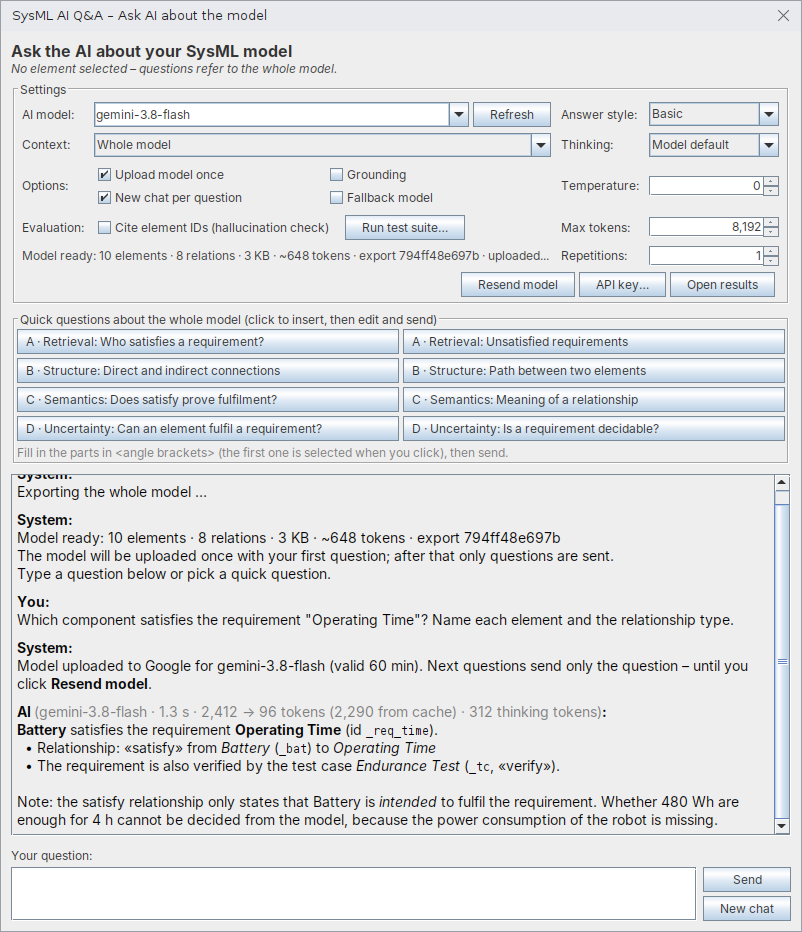
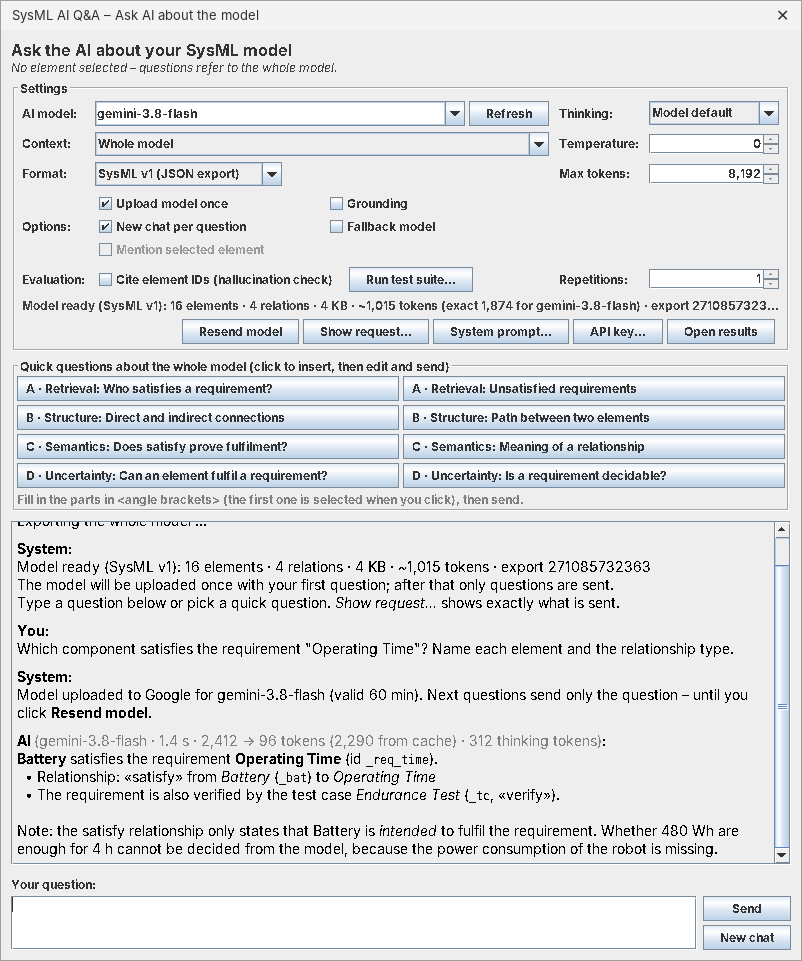
Handbook updated to v3.3 with new screenshots
All controls numbered from the real dialog, new sections for scope/format
and request preview/system prompt; unchanged installed prompt counts as
default.

Claude-Session: https://claude.ai/code/session_01PMQtB3czJBeF3QgdgGW1A7

Changed region(s): [[0.0, 0.0, 0.9975, 0.9335], [0.8728, 0.9335, 0.9975, 0.9957], [0.9663, 0.8712, 0.9975, 0.9024]]

diff --git a/src/de/hm/sysmlaiqa/api/PromptLoader.java b/src/de/hm/sysmlaiqa/api/PromptLoader.java
@@ -112,7 +112,11 @@ public class PromptLoader {
         if (text != null) return new Template(text, SOURCE_CUSTOM, custom);
         File installed = new File(baseDir, PROMPT_DIR + File.separator + fileName(format));
         text = read(installed);
-        if (text != null && !LEGACY_DEFAULTS.contains(normalize(text))) return new Template(text, SOURCE_INSTALLED, installed);
+        // Unveränderte Standardfassung (aktuell oder aus einer älteren Version) zählt als "default"
+        if (text != null && !LEGACY_DEFAULTS.contains(normalize(text))
+                && !normalize(text).equals(normalize(builtinDefault(format)))) {
+            return new Template(text, SOURCE_INSTALLED, installed);
+        }
         return new Template(builtinDefault(format), SOURCE_DEFAULT, null);
     }
 

diff --git a/HANDBUCH.md b/HANDBUCH.md
@@ -1,56 +1,58 @@
 # SysML AI Q&A – Benutzerhandbuch
 
-Dieses Handbuch erklärt das Plugin-Fenster nach der Installation: wo jede Einstellung ist, was sie bewirkt und welche Werte für Messungen sinnvoll sind. Installiert wird nach [`INSTALL.md`](INSTALL.md).
+Dieses Handbuch erklärt das Plugin-Fenster nach der Installation: wo jede Einstellung ist, was sie bewirkt und welche Werte für Messungen sinnvoll sind. Stand: **Version 3.3**. Installiert und aktualisiert wird nach [`INSTALL.md`](INSTALL.md).
 
-> **Stand der Bilder:** Die Screenshots stammen von Version 3.1. Seit 3.3 gibt es zusätzlich *Format*, *Depth*, *Choose…*, *Mention selected element*, *Show request…*, *System prompt…* und den *Stop*-Knopf; *Answer style* gibt es nicht mehr. Die Tabelle in Abschnitt 3 ist aktuell.
->
-> **Zu den Bildern:** Die Fenster-Screenshots zeigen das echte Plugin-Fenster mit einem kleinen Demo-Modell (Roboter mit Batterie, Antrieb, Chassis und drei Anforderungen) und Beispielantworten. In CATIA sieht das Fenster je nach Windows-Design etwas anders aus. Aufbau und Beschriftungen sind gleich.
+> **Zu den Bildern:** Das erste Bild ist ein echter Screenshot aus CATIA. Die übrigen zeigen das echte Plugin-Fenster mit einem kleinen Demo-Modell (Roboter mit Batterie, Antrieb, Chassis, drei Anforderungen und einem Testfall) und Beispielantworten. In CATIA sieht das Fenster je nach Windows-Design etwas anders aus. Aufbau und Beschriftungen sind gleich.
 
 **Inhalt**
 
 1. [Fenster öffnen](#1-fenster-öffnen)
 2. [Das Fenster im Überblick](#2-das-fenster-im-überblick)
 3. [Alle Einstellungen erklärt](#3-alle-einstellungen-erklärt)
-4. [Eine Frage stellen](#4-eine-frage-stellen)
-5. [Die Antwort lesen](#5-die-antwort-lesen)
-6. [Fragen zu einem Element](#6-fragen-zu-einem-element)
-7. [Schnellfragen](#7-schnellfragen)
-8. [Testlauf mit vielen Fragen](#8-testlauf-mit-vielen-fragen)
-9. [Ergebnisse finden und bewerten](#9-ergebnisse-finden-und-bewerten)
-10. [Empfohlene Einstellungen für Messungen](#10-empfohlene-einstellungen-für-messungen)
-11. [Häufige Fragen](#11-häufige-fragen)
+4. [Umfang und Format wählen](#4-umfang-und-format-wählen)
+5. [Eine Frage stellen](#5-eine-frage-stellen)
+6. [Die Antwort lesen](#6-die-antwort-lesen)
+7. [Sehen und ändern, was gesendet wird](#7-sehen-und-ändern-was-gesendet-wird)
+8. [Fragen zu einem Element](#8-fragen-zu-einem-element)
+9. [Schnellfragen](#9-schnellfragen)
+10. [Testlauf mit vielen Fragen](#10-testlauf-mit-vielen-fragen)
+11. [Ergebnisse finden und bewerten](#11-ergebnisse-finden-und-bewerten)
+12. [Empfohlene Einstellungen für Messungen](#12-empfohlene-einstellungen-für-messungen)
+13. [Häufige Fragen](#13-häufige-fragen)
 
 ---
 
 ## 1. Fenster öffnen
 
-| Wo | Menüpunkt | Was die KI bekommt |
+| Wo | Menüpunkt | Was die KI bekommt (änderbar unter *Context*) |
 | --- | --- | --- |
 | Rechtsklick im Containment Tree oder in einem Diagramm | **Ask AI (SysML AI Q&A) → Ask AI about the model…** | das ganze Modell |
-| Rechtsklick auf ein Element | **Ask AI (SysML AI Q&A) → Ask AI about this element…** | nur dieses Element mit seiner Umgebung |
+| Rechtsklick auf ein Element | **Ask AI (SysML AI Q&A) → Ask AI about this element…** | dieses Element mit seiner Umgebung |
 | Menüleiste | **Ask AI → Ask AI about the model…** | das ganze Modell |
-| Menüleiste, Element vorher markiert (auch in einer Tabelle) | **Ask AI → Ask AI about the selected element…** | nur das markierte Element mit Umgebung |
+| Menüleiste, Element vorher markiert (auch in einer Tabelle) | **Ask AI → Ask AI about the selected element…** | das markierte Element mit Umgebung |
 
 In einer **Requirement-Tabelle** erscheint beim Rechtsklick kein Eintrag. Dann die Zeile markieren und den Weg über die Menüleiste nehmen.
 
-Beim Öffnen exportiert das Plugin das Modell aus CATIA. Das dauert je nach Modellgröße einige Sekunden. Danach steht unten im Einstellungsbereich **Model ready: …** mit der Anzahl der Elemente und Beziehungen.
+Beim Öffnen exportiert das Plugin das Modell aus CATIA. Das dauert je nach Modellgröße einige Sekunden. Danach steht im Einstellungsbereich **Model ready (SysML v1): …** mit der Anzahl der Elemente und Beziehungen, der Größe und den Tokens. Kurz darauf ergänzt das Plugin die **exakte** Tokenzahl für das gewählte KI-Modell (*exact … for …*).
 
-![Das Plugin-Fenster in CATIA nach dem Export](docs/images/start-05-plugin-window.png)
+![Das Plugin-Fenster in CATIA nach dem Export (Fenster für ein Element)](docs/images/start-05-plugin-window.png)
 
 ---
 
 ## 2. Das Fenster im Überblick
 
-![Das Fenster mit nummerierten Bedienelementen](docs/images/window-model-numbered.png)
+![Das Fenster mit nummerierten Bedienelementen](docs/images/window-numbered.png)
+
+Das Bild zeigt das Fenster für ein Element, weil es dort alle Einstellungen gibt. Beim Fenster für das ganze Modell fehlen *Depth* (8), und *Mention selected element* (14) ist ausgegraut. *Choose…* (5) erscheint nur bei *Context: Selected packages / elements*, siehe [Abschnitt 4](#4-umfang-und-format-wählen).
 
 Das Fenster hat vier Bereiche, von oben nach unten:
 
 | Bereich | Nummern | Wozu |
 | --- | --- | --- |
-| **Settings** | 1–17 | KI-Modell und Versuchsparameter einstellen, Testlauf starten, Ergebnisse öffnen |
-| **Quick questions** | 18 | Fragevorlagen zum Anklicken |
-| **Chatverlauf** | 19 | Fragen, Antworten und Systemmeldungen |
-| **Your question** | 20–22 | Frage eintippen und abschicken |
+| **Settings** | 1–23 | KI-Modell, Umfang, Format und Versuchsparameter einstellen, Anfrage und System-Prompt ansehen, Testlauf starten, Ergebnisse öffnen |
+| **Quick questions** | 24 | Fragevorlagen zum Anklicken |
+| **Chatverlauf** | 25 | Fragen, Antworten und Systemmeldungen |
+| **Your question** | 26–28 | Frage eintippen, abschicken oder abbrechen |
 
 Alle Einstellungen werden automatisch gespeichert und beim nächsten Öffnen wiederhergestellt. Ausnahme: **Context** richtet sich danach, über welchen Menüpunkt das Fenster geöffnet wurde.
 
@@ -62,40 +64,68 @@ Alle Einstellungen werden automatisch gespeichert und beim nächsten Öffnen wie
 
 | Nr. | Bedienelement | Was es bewirkt | Standard |
 | --- | --- | --- | --- |
-| 1 | **AI model** | Welches Gemini-Modell antwortet. Auswählen oder eine Modell-ID eintippen. Vorgeschlagen sind `gemini-3.8-flash`, `gemini-3.6-flash`, `gemini-3.5-flash-lite` und `gemini-3.1-flash-lite` | `gemini-3.8-flash` |
-| 1b | **Refresh** | Lädt die Liste aller Modelle, die für deinen API-Key verfügbar sind. Wichtig für den Vergleich verschiedener Modellgrößen | – |
-| 3 | **Context** | Welcher Teil des Modells an die KI geht. *Whole model*: alles außer den SysML/UML-Bibliotheken. *Selected packages / elements*: nur die mit **Choose…** gewählten Pakete oder Elemente, jeweils mit ihrem ganzen Inhalt. *Selected element + surroundings*: nur das Element, seine Besitzer, Nachbarn und Beziehungen bis zur eingestellten Tiefe (nur verfügbar, wenn ein Element ausgewählt ist). Ein Wechsel startet einen neuen Export. Details: [`docs/EXPORTFORMATE.md`](docs/EXPORTFORMATE.md#2-umfang-des-exports-fr1) | je nach Menüpunkt |
-| 3a | **Choose…** | Nur bei *Selected packages / elements*: öffnet den Modellbaum. Mehrere Einträge mit Strg+Klick wählen. Im Containment Tree markierte Elemente sind vorausgewählt | – |
-| 3b | **Format** | *SysML v1 (JSON export)*: der Export aus CATIA. *SysML v2 (textual notation)*: dasselbe Modell in SysML-v2-Schreibweise, gleicher Inhalt. Jedes Format hat einen eigenen System-Prompt. Ein Wechsel schreibt das Modell neu, ohne neuen Export aus CATIA | SysML v1 |
-| 3c | **Depth: relations / neighbours** | Nur bei *Selected element + surroundings*. *relations*: wie viele Beziehungsschritte vom Element aus verfolgt werden (0–10). *neighbours*: über wie viele Besitzer-Ebenen Nachbarelemente dazukommen (0–5). Eine Änderung exportiert nach kurzer Pause neu | 5 / 3 |
-| 4 | **Thinking** | Wie viel die KI vor der Antwort „nachdenkt“: *Model default*, *Minimal*, *Low*, *Medium*, *High*. Weniger Denken ist schneller, kann aber bei indirekten Zusammenhängen schlechter sein. Kann ein Modell die Stufe nicht, wird der Modell-Standard genommen (steht im Log) | Model default |
-| 5 | **Upload model once** | An: Das Modell wird mit der ersten Frage einmal bei Google hochgeladen (60 Minuten gültig), danach geht nur noch die Frage raus. Das spart Zeit und Tokens. Nicht jedes Modell erlaubt das im Free Tier (z. B. Flash-Lite), dann wird das Modell automatisch mit jeder Frage geschickt | an |
-| 6 | **Grounding** | Erlaubt der KI eine Google-Suche. Für Messungen **aus** lassen, denn die Antwort soll nur aus dem Modell kommen | aus |
-| 7 | **New chat per question** | An: Jede Frage wird unabhängig beantwortet, die KI kennt die vorherigen Fragen nicht. Aus: Folgefragen bauen auf dem bisherigen Gespräch auf (z. B. „Und welche Masse hat es?“) | an |
-| 8a | **Mention selected element** | Nur wenn ein Element ausgewählt ist. An: Die erste Frage eines Chats beginnt mit *# Currently selected element* und Name, Typ, ID und Besitzer des Elements (genauer Text im Tooltip). Aus: Über die Auswahl wird nichts gesendet | an |
-| 8 | **Fallback model** | An: Ist das gewählte Modell überlastet, probiert das Plugin automatisch andere Modelle. Für Messungen **aus** lassen, sonst sind Ergebnisse verschiedener Modelle vermischt | aus |
-| 9 | **Temperature** | Zufälligkeit der Antwort, 0 bis 2. *0* = möglichst gleiche Antworten bei gleicher Frage (empfohlen für Messungen), höher = abwechslungsreicher | 0 |
-| 10 | **Cite element IDs (hallucination check)** | Die KI muss zu jedem genannten Element dessen ID angeben. Das Plugin prüft dann, ob es diese IDs im Modell gibt, und markiert erfundene. Ändert den System-Prompt | aus |
-| 11 | **Run test suite…** | Startet einen Testlauf mit Fragen aus einer CSV-Datei (siehe [Abschnitt 8](#8-testlauf-mit-vielen-fragen)). Während des Laufs heißt der Button *Stop test run* | – |
-| 12 | **Max tokens** | Maximale Länge der Antwort, inklusive internem Nachdenken. Wird eine Antwort abgeschnitten, steht ein Hinweis darunter: dann erhöhen | 8.192 |
-| 13 | **Statuszeile** | Zeigt den Export: Format, Anzahl Elemente und Beziehungen, Größe, geschätzte Tokens, kurz danach die **exakte** Tokenzahl für das gewählte KI-Modell (*exact … for …*) und eine Prüfsumme (`export …`). Ist das Modell zu groß für das Eingabelimit des KI-Modells, wird die Zeile rot. Mit der Maus darüberfahren zeigt den vollen Text und den Umfang | – |
-| 14 | **Repetitions** | Wie oft jede Frage gestellt wird (1–20), jedes Mal in einem neuen Chat. Mehr als 1 zeigt, wie stabil die Antworten sind | 1 |
-| 15 | **Resend model** | Exportiert das Modell neu aus CATIA und lädt es mit der nächsten Frage neu hoch. **Nach jeder Änderung am Modell in CATIA klicken**, sonst antwortet die KI zum alten Stand | – |
-| 15a | **Show request…** | Zeigt genau, was mit der nächsten Frage gesendet wird: System-Prompt, Modelldaten, bisheriger Chat, Frage-Nachricht und Parameter. **Save all…** speichert alles als Dateien | – |
-| 15b | **System prompt…** | System-Prompt je Format ansehen und ändern. Eigene Fassung wird unter `Dokumente\SysML-AI-QA\prompts` gespeichert, **Reset to default** stellt den Standard wieder her. Der System-Prompt ist eine Versuchsvariable: jede Fassung steht mit Prüfsumme im Log | – |
-| 16 | **API key…** | API-Key ansehen oder ändern | – |
-| 17 | **Open results** | Öffnet den Ergebnisordner `Dokumente\SysML-AI-QA` | – |
-| 18 | **Quick questions** | Fragevorlagen nach den Kategorien A–D (siehe [Abschnitt 7](#7-schnellfragen)) | – |
-| 19 | **Chatverlauf** | *System*: Meldungen des Plugins. *You*: deine Fragen. *AI*: Antworten mit Messwerten | – |
-| 20 | **Your question** | Frage eintippen. **Enter** schickt ab, **Shift+Enter** macht eine neue Zeile | – |
-| 21 | **Send / Stop** | Frage abschicken. Während die KI arbeitet, steht dort **Stop**: bricht die Anfrage sofort ab (auch Wartezeiten bei Limits). Abgebrochene Anfragen stehen mit `finish_reason = CANCELLED` im Log | – |
-| 22 | **New chat** | Löscht den Chatverlauf. Das exportierte Modell bleibt geladen | – |
+| 1 | **AI model** | Welches Gemini-Modell antwortet. Auswählen oder eine Modell-ID eintippen. Vorgeschlagen sind `gemini-3.8-flash`, `gemini-3.6-flash`, `gemini-3.5-flash-lite` und `gemini-3.1-flash-lite`. Ein Wechsel zählt die Tokens für das neue Modell nach | `gemini-3.8-flash` |
+| 2 | **Refresh** | Lädt die Liste aller Modelle, die für deinen API-Key verfügbar sind. Wichtig für den Vergleich verschiedener Modellgrößen | – |
+| 3 | **Thinking** | Wie viel die KI vor der Antwort „nachdenkt“: *Model default*, *Minimal*, *Low*, *Medium*, *High*. Weniger Denken ist schneller, kann aber bei indirekten Zusammenhängen schlechter sein. Kann ein Modell die Stufe nicht, wird der Modell-Standard genommen (steht im Log) | Model default |
+| 4 | **Context** | Welcher Teil des Modells an die KI geht: *Whole model*, *Selected packages / elements* oder *Selected element + surroundings*. Ein Wechsel startet einen neuen Export. Details in [Abschnitt 4](#4-umfang-und-format-wählen) | je nach Menüpunkt |
+| 5 | **Choose…** | Nur bei *Selected packages / elements*: Pakete oder Elemente im Modellbaum auswählen | – |
+| 6 | **Temperature** | Zufälligkeit der Antwort, 0 bis 2. *0* = möglichst gleiche Antworten bei gleicher Frage (empfohlen für Messungen), höher = abwechslungsreicher | 0 |
+| 7 | **Format** | *SysML v1 (JSON export)*: der Export aus CATIA. *SysML v2 (textual notation)*: dasselbe Modell in SysML-v2-Schreibweise. Jedes Format hat einen eigenen System-Prompt | SysML v1 |
+| 8 | **Depth: relations / neighbours** | Nur bei *Selected element + surroundings*: wie viele Beziehungsschritte vom Element aus verfolgt werden (0–10) und über wie viele Besitzer-Ebenen Nachbarelemente dazukommen (0–5). Nach einer Änderung exportiert das Plugin kurz darauf neu | 5 / 3 |
+| 9 | **Max tokens** | Maximale Länge der Antwort, inklusive internem Nachdenken. Wird eine Antwort abgeschnitten, steht ein Hinweis darunter: dann erhöhen | 8.192 |
+| 10 | **Upload model once** | An: System-Prompt und Modell werden mit der ersten Frage einmal bei Google hochgeladen (60 Minuten gültig), danach geht nur noch die Frage raus. Das spart Übertragung und Zeit; der Inhalt der Anfrage bleibt gleich. Nicht jedes Modell erlaubt das im Free Tier (z. B. Flash-Lite), dann wird das Modell automatisch mit jeder Frage geschickt | an |
+| 11 | **Grounding** | Erlaubt der KI eine Google-Suche. Für Messungen **aus** lassen, denn die Antwort soll nur aus dem Modell kommen | aus |
+| 12 | **New chat per question** | An: Jede Frage wird unabhängig beantwortet, die KI kennt die vorherigen Fragen nicht. Aus: Folgefragen bauen auf dem bisherigen Gespräch auf (z. B. „Und welche Masse hat es?“) | an |
+| 13 | **Fallback model** | An: Ist das gewählte Modell überlastet, probiert das Plugin automatisch andere Modelle. Für Messungen **aus** lassen, sonst sind Ergebnisse verschiedener Modelle vermischt | aus |
+| 14 | **Mention selected element** | Nur wenn ein Element ausgewählt ist. An: Die erste Frage eines Chats beginnt mit *# Currently selected element* und Name, Typ, ID und Besitzer des Elements (genauer Text im Tooltip). Aus: Über die Auswahl wird nichts gesendet | an |
+| 15 | **Cite element IDs (hallucination check)** | Die KI muss zu jedem genannten Element dessen ID angeben. Das Plugin prüft dann, ob es diese IDs im Modell gibt, und markiert erfundene. Ändert den System-Prompt | aus |
+| 16 | **Run test suite…** | Startet einen Testlauf mit Fragen aus einer CSV-Datei (siehe [Abschnitt 10](#10-testlauf-mit-vielen-fragen)). Während des Laufs heißt der Button *Stop test run* | – |
+| 17 | **Repetitions** | Wie oft jede Frage gestellt wird (1–20), jedes Mal in einem neuen Chat. Mehr als 1 zeigt, wie stabil die Antworten sind | 1 |
+| 18 | **Statuszeile** | Format, Anzahl Elemente und Beziehungen, Größe, geschätzte Tokens, die **exakte** Tokenzahl für das gewählte KI-Modell und eine Prüfsumme (`export …`). Nach dem Hochladen zusätzlich *uploaded for …*. Ist das Modell größer als das Eingabelimit des KI-Modells, wird die Zeile rot. Mit der Maus darüberfahren zeigt den vollen Text und den Umfang | – |
+| 19 | **Resend model** | Exportiert das Modell neu aus CATIA und lädt es mit der nächsten Frage neu hoch. **Nach jeder Änderung am Modell in CATIA klicken**, sonst antwortet die KI zum alten Stand | – |
+| 20 | **Show request…** | Zeigt genau, was mit der nächsten Frage gesendet wird, und speichert es auf Wunsch (siehe [Abschnitt 7](#7-sehen-und-ändern-was-gesendet-wird)) | – |
+| 21 | **System prompt…** | System-Prompt je Format ansehen und ändern (siehe [Abschnitt 7](#7-sehen-und-ändern-was-gesendet-wird)) | – |
+| 22 | **API key…** | API-Key ansehen oder ändern | – |
+| 23 | **Open results** | Öffnet den Ergebnisordner `Dokumente\SysML-AI-QA` | – |
+| 24 | **Quick questions** | Fragevorlagen nach den Kategorien A–D (siehe [Abschnitt 9](#9-schnellfragen)) | – |
+| 25 | **Chatverlauf** | *System*: Meldungen des Plugins. *You*: deine Fragen. *AI*: Antworten mit Messwerten | – |
+| 26 | **Your question** | Frage eintippen. **Enter** schickt ab, **Shift+Enter** macht eine neue Zeile | – |
+| 27 | **Send / Stop** | Frage abschicken. Während die KI arbeitet, steht dort **Stop**: bricht die Anfrage sofort ab | – |
+| 28 | **New chat** | Löscht den Chatverlauf. Das exportierte Modell bleibt geladen | – |
 
-**Wann wird das Modell automatisch neu hochgeladen?** Wenn sich das KI-Modell, das Format, der Umfang, der System-Prompt, der ID-Check oder Grounding ändert, oder nach *Resend model*. Grund: Diese Einstellungen gehören zum hochgeladenen Paket.
+**Wann wird das Modell automatisch neu hochgeladen?** Wenn sich das KI-Modell, Context, Format, Depth, der System-Prompt, der ID-Check oder Grounding ändert, oder nach *Resend model*. Grund: Diese Dinge gehören zum hochgeladenen Paket.
 
 ---
 
-## 4. Eine Frage stellen
+## 4. Umfang und Format wählen
+
+**Context** legt fest, welcher Teil des Modells an die KI geht:
+
+| Context | Was die KI bekommt | Wann sinnvoll |
+| --- | --- | --- |
+| **Whole model** | alles außer den SysML/UML-Bibliotheken | Standard für Messungen: alle Fragen haben dieselbe Grundlage |
+| **Selected packages / elements** | nur die gewählten Pakete oder Elemente, jeweils mit allem, was sie enthalten | Einfluss der Modellgröße untersuchen; große Modelle unter das Eingabelimit eines kleinen KI-Modells bringen |
+| **Selected element + surroundings** | das Element, seine Besitzer, Nachbarn und verbundene Elemente bis zur eingestellten Tiefe (*Depth*) | Fragen zu einem Element; untersuchen, ob mehr Kontext hilft |
+
+**Pakete oder Elemente wählen:**
+
+1. *Context* auf **Selected packages / elements** stellen. Der Auswahldialog öffnet sich beim ersten Mal von selbst, später über **Choose…** (5).
+2. Im Modellbaum ein oder mehrere Pakete oder Elemente markieren (**Strg+Klick** für mehrere). Im Containment Tree markierte Elemente sind schon vorausgewählt.
+3. **Use selection**. Das Plugin exportiert neu, die Statuszeile zeigt die neue Größe.
+
+![Pakete oder Elemente auswählen](docs/images/element-picker.png)
+
+![Context mit gewählten Paketen und dem Knopf Choose…](docs/images/context-selection.png)
+
+Beziehungen zu Elementen außerhalb der Auswahl bleiben als ID erhalten. Die KI sieht dann, dass es eine Beziehung gibt, aber nicht, wohin sie führt.
+
+**Format:** *SysML v1 (JSON export)* schickt den Export aus CATIA. *SysML v2 (textual notation)* schickt dasselbe Modell in SysML-v2-Schreibweise, z. B. `part def <_bat> Battery { attribute capacity : Wh = 480; }`. Der Inhalt ist gleich, nur die Darstellung ändert sich. So lässt sich vergleichen, ob die KI eine Notation besser versteht. Ein Wechsel schreibt das Modell sofort neu, ohne neuen Export aus CATIA.
+
+Alle Regeln zu Umfang und Formaten: [`docs/EXPORTFORMATE.md`](docs/EXPORTFORMATE.md).
+
+---
+
+## 5. Eine Frage stellen
 
 1. Warten, bis die Statuszeile **Model ready** zeigt.
 2. Unten bei **Your question** eine Frage eintippen, z. B. *Which component satisfies the requirement "Operating Time"?*
@@ -106,11 +136,13 @@ Alle Einstellungen werden automatisch gespeichert und beim nächsten Öffnen wie
 
 Fragen und Antworten sind auf Englisch gedacht, weil Modell und Schnellfragen englisch sind. Die Antwortsprache gibt das Plugin nicht vor: Die KI antwortet meist in der Sprache der Frage. Wer eine bestimmte Sprache will, schreibt das in die Frage.
 
-Was genau gesendet wird, zeigt **Show request…**. Dauert eine Antwort zu lange, bricht **Stop** ab.
+**Abbrechen:** Während die KI arbeitet, wird **Send** zu **Stop**. Ein Klick bricht die Anfrage sofort ab, auch wenn das Plugin gerade wegen eines Limits wartet. Im Chat steht dann *Cancelled by user.*, im Log `finish_reason = CANCELLED`.
+
+![Laufende Anfrage mit dem Knopf Stop](docs/images/stop-button.png)
 
 ---
 
-## 5. Die Antwort lesen
+## 6. Die Antwort lesen
 
 ![Antwort mit Messwerten](docs/images/answer-detail.png)
 
@@ -119,8 +151,8 @@ Hinter **AI** steht in Grau, wie die Antwort zustande kam:
 | Angabe | Beispiel | Bedeutung |
 | --- | --- | --- |
 | Modell | `gemini-3.8-flash` | Welches Modell geantwortet hat. Leitet Google auf ein anderes Modell um, steht dort `angefragt → tatsächlich` |
-| Dauer | `1.3 s` | Zeit vom Abschicken bis zur Antwort |
-| Tokens | `2,412 → 96 tokens` | Umfang der Eingabe (Modell und Frage) → Länge der Antwort |
+| Dauer | `1.4 s` | Zeit vom Abschicken bis zur Antwort |
+| Tokens | `2,412 → 96 tokens` | Umfang der Eingabe (System-Prompt, Modell, Chat und Frage) → Länge der Antwort |
 | Cache | `(2,290 from cache)` | Teil der Eingabe, der aus dem hochgeladenen Modell kam |
 | Thinking | `312 thinking tokens` | Umfang des internen Nachdenkens |
 | Wartezeit | `waited 20 s` | nur wenn Google wegen eines Limits warten ließ |
@@ -128,24 +160,54 @@ Hinter **AI** steht in Grau, wie die Antwort zustande kam:
 
 Bei eingeschaltetem **Cite element IDs** folgt unter der Antwort der ID-Check, z. B. *6 IDs cited, all found in model* (grün) oder *2 of 5 IDs NOT in model: …* (rot = erfundene Elemente).
 
-Jede Antwort wird automatisch mit allen Einstellungen protokolliert (siehe [Abschnitt 9](#9-ergebnisse-finden-und-bewerten)).
+Kommt keine Antwort, steht statt der Antwort eine Meldung mit Grund und Abhilfe, z. B. *Model data too large for …* oder *Empty answer from …* (siehe [Häufige Fragen](#13-häufige-fragen)).
+
+Jede Antwort wird automatisch mit allen Einstellungen protokolliert (siehe [Abschnitt 11](#11-ergebnisse-finden-und-bewerten)).
 
 ---
 
-## 6. Fragen zu einem Element
+## 7. Sehen und ändern, was gesendet wird
+
+**Show request…** zeigt in Reitern genau das, was mit der nächsten Frage an die KI geht. Steht schon eine Frage im Eingabefeld, ist sie enthalten.
+
+| Reiter | Inhalt |
+| --- | --- |
+| **System prompt** | die Anweisung an die KI, so wie sie gesendet wird, und woher sie stammt |
+| **Model data** | die Modelldaten im gewählten Format mit Größe, Tokens, Prüfsumme und Umfang |
+| **Earlier chat** | nur bei ausgeschaltetem *New chat per question*: frühere Fragen und Antworten, die erneut mitgehen |
+| **Question** | die Frage-Nachricht, ggf. mit dem ausgewählten Element davor |
+| **Parameters** | Modell, Temperatur, Max tokens, Thinking, Grounding, Übertragung |
+
+**Save all…** speichert alle Teile als einzelne Dateien in einen gewählten Ordner, z. B. für die Dokumentation eines Experiments. Es wird nichts gesendet, das hier nicht steht.
+
+![Anzeige der Anfrage, Reiter Question](docs/images/request-preview.png)
+
+**System prompt…** zeigt den System-Prompt und lässt ihn ändern:
+
+1. Oben das Format wählen (*SysML v1* oder *SysML v2*). Jedes Format hat einen eigenen Prompt.
+2. Text ändern. `{idInstruction}` steht für die Anweisung, IDs zu nennen. Sie wird bei *Cite element IDs* eingesetzt, sonst entfernt.
+3. **Save**. Der neue Prompt gilt ab der nächsten Frage. **Reset to default** stellt die Standardfassung wieder her.
+
+![System-Prompt ansehen und ändern](docs/images/system-prompt.png)
+
+Eigene Fassungen liegen unter `Dokumente\SysML-AI-QA\prompts`. Der System-Prompt ist eine **Versuchsvariable**: Jede verwendete Fassung wird im Wortlaut unter `archive\prompts` abgelegt, im Log stehen ihre Prüfsumme (`system_prompt_sha`) und ihre Herkunft (`system_prompt_source`: *default*, *custom* oder *installed*). Innerhalb eines Experiments nicht ändern.
+
+---
+
+## 8. Fragen zu einem Element
 
 Über **Ask AI about this element…** (Rechtsklick) oder **Ask AI about the selected element…** (Menüleiste) öffnet sich das Fenster für ein einzelnes Element:
 
 ![Fenster für ein einzelnes Element](docs/images/window-element.png)
 
 - Oben steht das gewählte Element mit Typ, z. B. *Selected element: Operating Time [Requirement]*.
-- **Context** steht auf *Selected element + surroundings*. Die KI bekommt nur dieses Element und seine Umgebung. Das ist schneller, aber Fragen zu weit entfernten Teilen kann sie dann nicht beantworten. Für solche Fragen auf *Whole model* umstellen oder **Depth** erhöhen.
+- **Context** steht auf *Selected element + surroundings*. Die KI bekommt nur dieses Element und seine Umgebung. Das ist schneller, aber Fragen zu weit entfernten Teilen kann sie dann nicht beantworten. Dann **Depth** erhöhen oder auf *Whole model* umstellen.
 - **Mention selected element** (an) nennt der KI das gewählte Element bei der ersten Frage. Ausschalten, wenn die KI das Element selbst finden soll.
 - Die **Schnellfragen** beziehen sich auf das gewählte Element. Für Requirements gibt es eigene Fragen (z. B. zu satisfy und verify).
 
 ---
 
-## 7. Schnellfragen
+## 9. Schnellfragen
 
 Die Schnellfragen sind Vorlagen für die vier Fähigkeiten, die das Projekt untersucht:
 
@@ -168,12 +230,14 @@ So geht's:
 
 ---
 
-## 8. Testlauf mit vielen Fragen
+---
+
+## 10. Testlauf mit vielen Fragen
 
 Für Messungen werden Fragen nicht einzeln getippt, sondern als Liste in einer CSV-Datei vorbereitet und automatisch abgearbeitet.
 
 1. **Testfälle anlegen:** Vorlage [`evaluation/testcases_template.csv`](evaluation/testcases_template.csv) in Excel öffnen. Pro Zeile eine Frage mit ID, Kategorie (A–D) und Referenzantwort. Details: [`evaluation/README.md`](evaluation/README.md).
-2. Im Plugin die Einstellungen wählen (Modell, Temperatur, Thinking, Repetitions …).
+2. Im Plugin die Einstellungen wählen (Modell, Context, Format, Temperatur, Thinking, Repetitions …). Der Testlauf nutzt genau diese Einstellungen und den aktuellen System-Prompt.
 3. **Run test suite…** klicken und die CSV-Datei auswählen.
 4. Im folgenden Fenster prüfen:
    - Anzahl der geladenen Testfälle je Kategorie
@@ -183,7 +247,7 @@ Für Messungen werden Fragen nicht einzeln getippt, sondern als Liste in einer C
 
 ![Testlauf bestätigen](docs/images/test-suite-confirm.png)
 
-Während des Laufs erscheint pro Antwort eine Zeile mit Nummer, Testfall, Modell, *ok* oder *failed*, Dauer und dem Anfang der Antwort. **Stop test run** bricht nach der laufenden Frage ab. Bisherige Ergebnisse bleiben gespeichert.
+Während des Laufs erscheint pro Antwort eine Zeile mit Nummer, Testfall, Modell, *ok* oder *failed*, Dauer und dem Anfang der Antwort. **Stop test run** bricht sofort ab, auch die gerade laufende Frage. Bisherige Ergebnisse bleiben gespeichert.
 
 ![Abgeschlossener Testlauf](docs/images/test-suite-finished.png)
 
@@ -191,7 +255,9 @@ Im Testlauf gilt immer: jede Frage in einem neuen Chat, kein Fallback-Modell. Be
 
 ---
 
-## 9. Ergebnisse finden und bewerten
+---
+
+## 11. Ergebnisse finden und bewerten
 
 **Open results** öffnet den Ordner `Dokumente\SysML-AI-QA`:
 
@@ -227,7 +293,9 @@ Tipps:
 
 ---
 
-## 10. Empfohlene Einstellungen für Messungen
+---
+
+## 12. Empfohlene Einstellungen für Messungen
 
 | Einstellung | Wert | Warum |
 | --- | --- | --- |
@@ -247,7 +315,9 @@ Grundregel: Pro Experiment genau **eine** Größe ändern, z. B. nur das KI-Mode
 
 ---
 
-## 11. Häufige Fragen
+---
+
+## 13. Häufige Fragen
 
 **Die Antwort bezieht sich auf einen alten Stand des Modells.**
 Nach Änderungen in CATIA **Resend model** klicken. Das Fenster arbeitet mit dem Export vom Öffnen.

diff --git a/AENDERUNGEN.md b/AENDERUNGEN.md
@@ -15,6 +15,8 @@ Zuordnung jeder Anforderung zur Umsetzung: [`docs/LASTENHEFT_ABDECKUNG.md`](docs
 - **Fehlermeldungen (FR12):** konkrete Meldungen bei nicht erreichbarer API, zu großem Export und leerer Antwort (leere Antworten zählen nicht mehr als Erfolg).
 - **Sprache (NFR5):** „Answer in the language of the question“ ist aus dem Standard-Prompt entfernt. Neue `system_prompt_sha` – Ergebnisse vor und nach 3.3 nicht direkt vergleichen.
 - **Log (FR11):** neue Spalten `system_prompt_source`, `export_format`, `export_scope_detail`, `export_tokens_est`, `export_tokens_exact`, `previous_turns`, `user_message`. Ein altes `answers_log.csv` wird umbenannt (`_old_…`), es geht nichts verloren.
+- Handbuch mit neuen Bildern auf Stand 3.3 gebracht (alle Bedienelemente nummeriert, neue Abschnitte „Umfang und Format wählen“ und „Sehen und ändern, was gesendet wird“).
+- Eine unveränderte installierte Standardfassung des System-Prompts zählt als `default` (nicht als `installed`).
 - Nicht in CATIA getestet, sondern gegen nachgebildete CATIA-Schnittstellen kompiliert und mit simuliertem Gemini-Server geprüft.
 
 ## v3.2.1 – Fenster nicht mehr immer im Vordergrund
